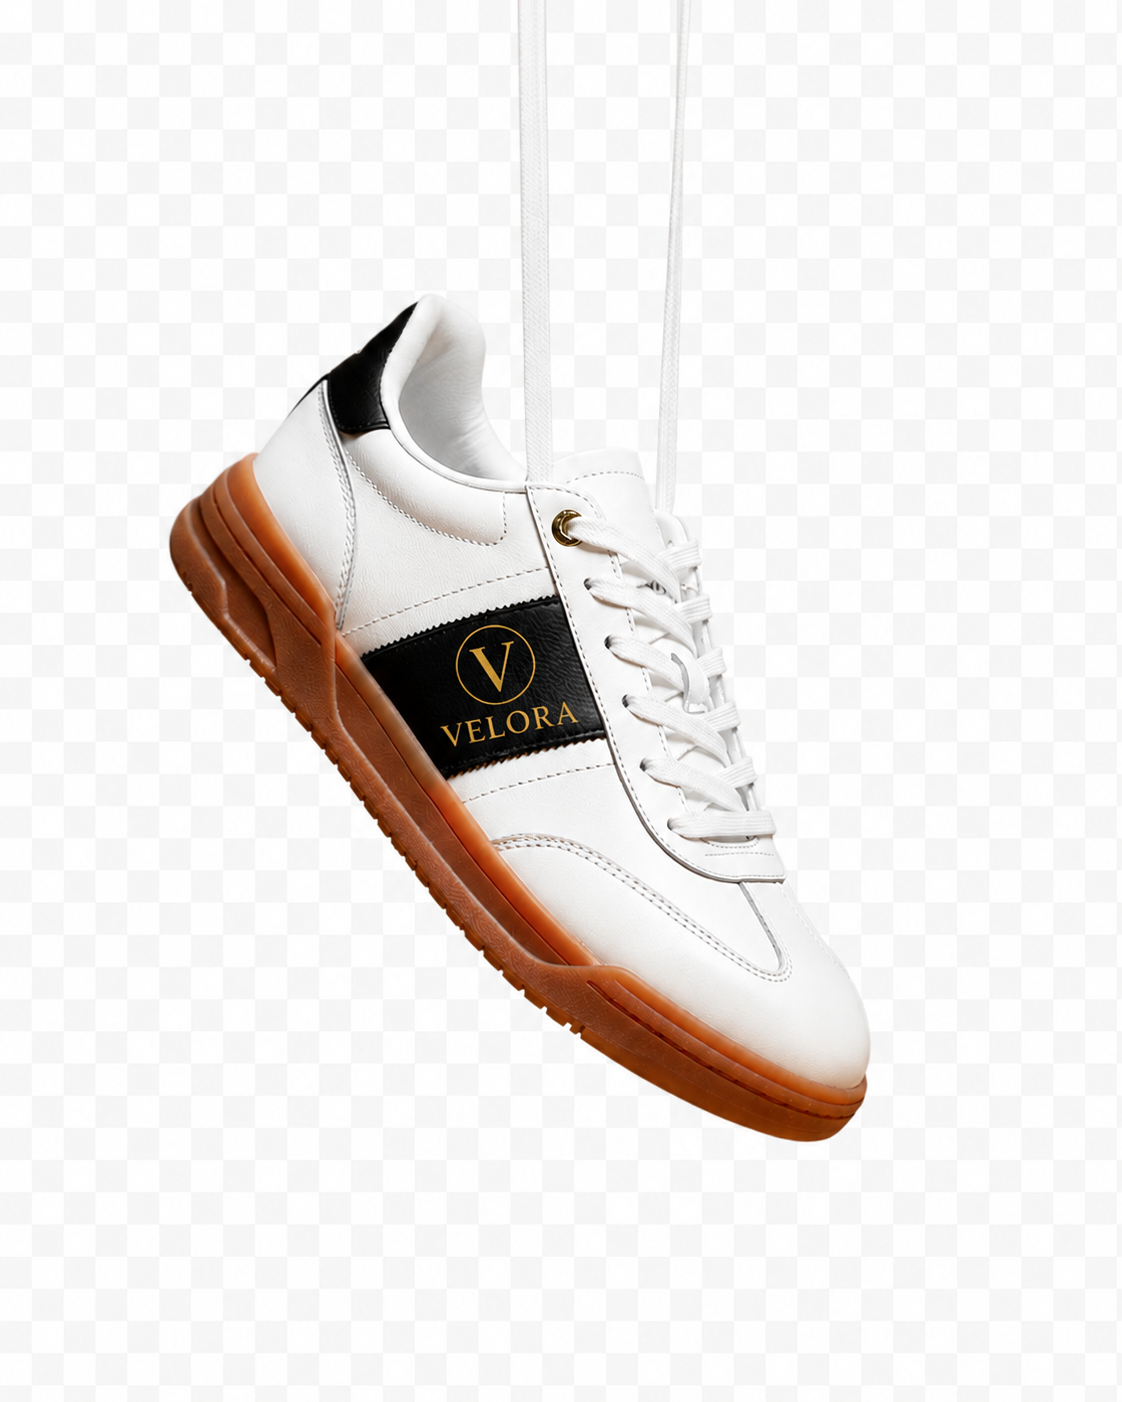
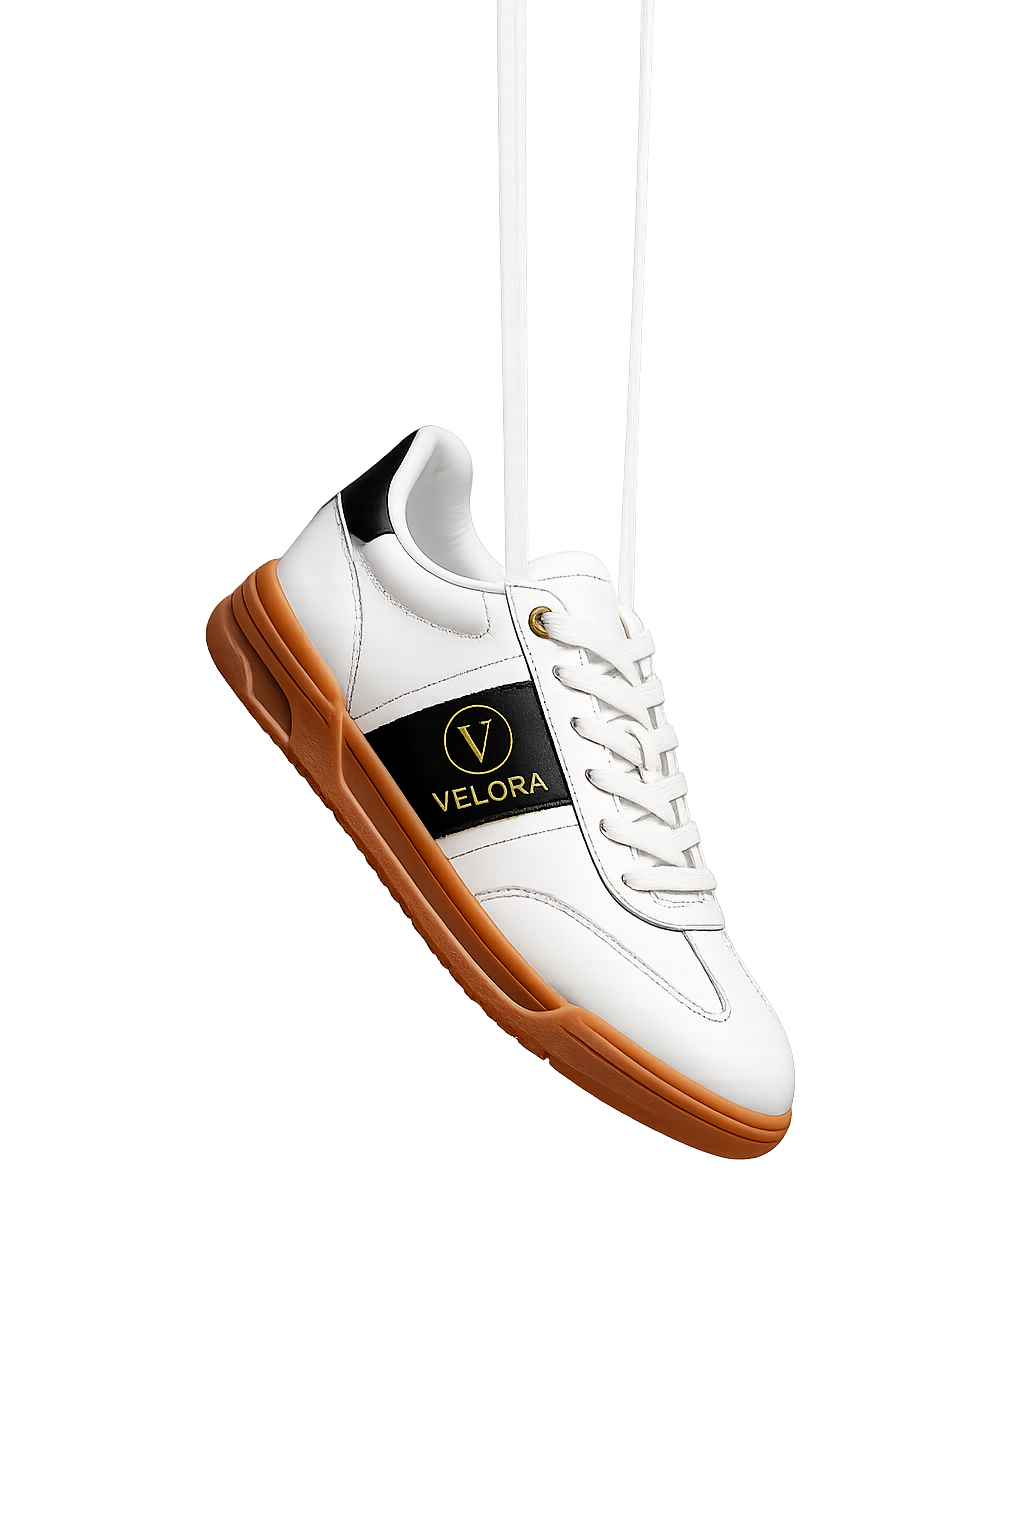
feat: add shoe4, fix featured section scaling with JS on mobile

Changed region(s): [[0.125, 0.2147, 0.7812, 0.8281], [0.5938, 0.0, 0.625, 0.2454], [0.4688, 0.184, 0.5, 0.2454]]

diff --git a/style.css b/style.css
@@ -1,16 +1,10 @@
-/* VELORA — Sneakers Landing Page */
-
 @import url('https://fonts.googleapis.com/css2?family=Bebas+Neue&family=Caveat:wght@700&display=swap');
-
-/*   RESET   */
 
 *, *::before, *::after {
   margin: 0;
   padding: 0;
   box-sizing: border-box;
 }
-
-/*   NAVBAR   */
 
 .navbar {
   position: relative;
@@ -136,8 +130,6 @@
 
 .wish-cart i:hover { color: bisque; }
 
-/*   HERO   */
-
 .hero {
   min-height: 25vh;
   padding: 4rem 2rem;
@@ -185,8 +177,6 @@
   transform: translateY(-2px) scale(1.05);
 }
 
-/*   BRAND SECTION   */
-
 .brand-items { width: 100%; }
 
 .brand {
@@ -206,7 +196,7 @@
 
 .overlay-text {
   position: absolute;
-  top: 50%;
+  top: 60%;
   left: 50%;
   transform: translate(-50%, -50%);
   display: flex;
@@ -220,14 +210,14 @@
 
 .overlay-text h3 {
   color: bisque;
-  font-size: clamp(1rem, 4vw, 1.5rem);
+  font-size: clamp(0.7rem, 2vw, 1.2rem);
   font-family: "Bebas Neue", sans-serif;
   letter-spacing: 0.2rem;
 }
 
 .overlay-text h1 {
   color: rgb(255, 155, 33);
-  font-size: clamp(2.5rem, 6vw, 3.5rem);
+  font-size: clamp(2rem, 4vw, 3.2rem);
   letter-spacing: 0.5rem;
   font-family: "Caveat", cursive;
 }
@@ -251,7 +241,7 @@
 .title h2 {
   color: rgb(255, 155, 33);
   font-family: "Bebas Neue", sans-serif;
-  font-size: clamp(1.8rem, 4vw, 2rem);
+  font-size: clamp(1.5rem, 3vw, 2rem);
   letter-spacing: 0.2rem;
 }
 
@@ -260,11 +250,9 @@
   font-family: "Bebas Neue", sans-serif;
   font-weight: 200;
   letter-spacing: 0.12rem;
-  line-height: 1.6;
+  line-height: 1.3;
   text-align: center;
 }
-
-/* ============  COLLECTION  ============ */
 
 .collection {
   margin-top: 20px;
@@ -283,7 +271,6 @@
 .tag h1 { font-weight: 600; }
 .tag p  { line-height: 1.8; }
 
-
 .shoes {
   display: flex;
   justify-content: flex-start;
@@ -295,8 +282,12 @@
   padding-bottom: 10px;
 }
 
+.shoes::-webkit-scrollbar { height: 4px; }
+.shoes::-webkit-scrollbar-track { background: transparent; }
+.shoes::-webkit-scrollbar-thumb { background: rgba(0,0,0,0.2); border-radius: 2px; }
+
 .shoe {
-  width: clamp(200px, 25%, 300px);
+  width: clamp(160px, 25%, 300px);
   flex-shrink: 0;
   scroll-snap-align: start;
   border-radius: 12px;
@@ -304,13 +295,14 @@
   border: 2px solid #0000001a;
   transition: .3s ease;
   box-shadow: 0 8px 32px rgba(0,0,0,0.3),
-  inset 0 1px 1px rgba(255,255,255,0.25);
+              inset 0 1px 1px rgba(255,255,255,0.25);
 }
 
-.shoe:hover        { transform: translateY(-6px); }
-.shoe1:hover       { box-shadow: 0 0 30px rgba(182,135,77,.45); }
-.shoe2:hover       { box-shadow: 0 0 30px rgba(100,78,78,.45); }
-.shoe3:hover       { box-shadow: 0 0 30px rgba(45,132,52,.45); }
+.shoe:hover  { transform: translateY(-6px); }
+.shoe1:hover { box-shadow: 0 0 30px rgb(188,136,73); }
+.shoe2:hover { box-shadow: 0 0 30px rgb(100,78,78); }
+.shoe3:hover { box-shadow: 0 0 30px rgb(45,132,52); }
+.shoe4:hover { box-shadow: 0 0 30px rgb(255,89,0); }
 
 .shoe-image { position: relative; }
 
@@ -326,7 +318,8 @@
 
 .shoe1 img { background: rgb(177,155,128); }
 .shoe2 img { background: rgb(108,108,108); }
-.shoe3 img { background: rgb(73,134,78);   }
+.shoe3 img { background: rgb(73,134,78); }
+.shoe4 img { background: rgb(83,46,0); object-fit: cover; }
 
 .wishlist {
   position: absolute;
@@ -365,16 +358,12 @@
 .cart-icon       { font-size: 1.2rem; cursor: pointer; transition: .3s; }
 .cart-icon:hover { transform: scale(1.15); }
 
-
-
 .featured-product {
   border: 3px solid black;
   margin-top: 20px;
   width: 100%;
-  overflow: hidden;
-
-  padding-bottom: calc(100vw * 0.75);
   position: relative;
+  overflow: hidden;
 }
 
 .featured-scaler {
@@ -382,10 +371,9 @@
   top: 0;
   left: 0;
   width: 1200px;
-  aspect-ratio: 16 / 12;
+  height: 900px;
   display: flex;
   transform-origin: top left;
-  transform: scale(calc(100vw / 1200px));
 }
 
 .pink-box  { flex: 0.35; background-color: rgb(255,94,121); }
@@ -502,9 +490,9 @@
   transition: 0.3s ease;
 }
 
-.arctic  { left: 40%;                           background-color: rgba(0,183,255,0.233); }
-.crimson { left: calc(40% + 12% + 5%);          background-color: rgba(255,0,0,0.233);   }
-.olive   { left: calc(40% + (12%*2) + (5%*2));  background-color: rgba(128,128,0,0.249); }
+.arctic  { left: 40%;                          background-color: rgba(0,183,255,0.233); }
+.crimson { left: calc(40% + 12% + 5%);         background-color: rgba(255,0,0,0.233); }
+.olive   { left: calc(40% + (12%*2) + (5%*2)); background-color: rgba(128,128,0,0.249); }
 
 .arctic:hover,
 .crimson:hover,
@@ -524,7 +512,7 @@
 .olive h3 {
   position: absolute;
   top: 75%;
-  font-size: clamp(0.8rem, 1.5vw, 0.9rem);
+  font-size: clamp(0.6rem,1.5vw,0.9rem);
   padding-right: 5px;
 }
 
@@ -535,31 +523,26 @@
   left: 35%;
   top: 50%;
   border-radius: 50%;
-border-top:    55px solid white;
-border-right:  55px solid rgb(255,94,121);
-border-bottom: 55px solid rgb(255,94,121);
-border-left:   55px solid white;
-transform: translate(-50%,-50%) rotate(-45deg);
+  border-top:    55px solid white;
+  border-right:  55px solid rgb(255,94,121);
+  border-bottom: 55px solid rgb(255,94,121);
+  border-left:   55px solid white;
+  transform: translate(-50%,-50%) rotate(-45deg);
 }
 
-/* RESPONSIVE BREAKPOINTS */
-
-/* 1024px */
 @media (max-width: 1024px) {
   .search-box { width: 180px; margin-right: 16px; }
-  .elements   { gap: 1.2rem;  margin-right: 18px; }
+  .elements   { gap: 1.2rem; margin-right: 18px; }
 }
 
-/* 900px */
 @media (max-width: 900px) {
   .search-box { width: 150px; margin-right: 12px; }
-  .elements   { gap: 0.9rem;  margin-right: 14px; }
+  .elements   { gap: 0.9rem; margin-right: 14px; }
   .elements a { font-size: 0.78rem; letter-spacing: 0.02em; }
   .logo h1    { font-size: 1rem; }
   .wish-cart  { gap: 14px; }
 }
 
-/* 768px — collection */
 @media (max-width: 768px) {
   .tag    { flex-direction: column; gap: 1rem; padding: 1.5rem; }
   .tag h1 { font-size: clamp(1rem,3.5vw,1.4rem); }
@@ -567,11 +550,10 @@ transform: translate(-50%,-50%) rotate(-45deg);
   .shoes  { gap: 14px; margin: 24px 12px; }
 }
 
-/* 650px — 2-row navbar */
 @media (max-width: 650px) {
-  .navbar     { height: auto; flex-wrap: wrap; padding: 8px 12px; gap: 6px; }
-  .logo       { order: 1; flex: 1; }
-  .wish-cart  { order: 2; flex: 0; }
+  .navbar    { height: auto; flex-wrap: wrap; padding: 8px 12px; gap: 6px; }
+  .logo      { order: 1; flex: 1; }
+  .wish-cart { order: 2; flex: 0; }
 
   .search-box {
     order: 3; flex: 0; width: auto;
@@ -593,7 +575,7 @@ transform: translate(-50%,-50%) rotate(-45deg);
 
   @keyframes searchSlideIn {
     from { opacity: 0; transform: translateY(-50%) translateX(10px); }
-    to   { opacity: 1; transform: translateY(-50%) translateX(0);    }
+    to   { opacity: 1; transform: translateY(-50%) translateX(0); }
   }
 
   .search-box.open input { display: block; width: 100%; color: #000; background: transparent; }
@@ -605,7 +587,6 @@ transform: translate(-50%,-50%) rotate(-45deg);
   .logo h1    { font-size: 0.95rem; }
 }
 
-/* 600px — collection stack + hero tweaks */
 @media (max-width: 600px) {
   .hero-logo       { letter-spacing: 0.8rem; font-size: 2.2rem; }
   .hero-cta        { padding: 0.9rem 1.2rem; }
@@ -613,27 +594,19 @@ transform: translate(-50%,-50%) rotate(-45deg);
   .overlay-text h3 { letter-spacing: 2px; }
   .shoe-title h3   { font-size: 1rem; }
   .shoe-info p     { font-size: 0.9rem; }
+  .shoes           { gap: 12px; margin: 20px 10px; }
+  .shoe            { width: 70vw; }
 }
 
-/* 420px — very small navbar */
 @media (max-width: 420px) {
   .search-box      { display: flex; margin-right: 4px; }
   .search-box.open { width: 140px; }
   .elements        { gap: 0.45rem; }
   .elements a      { font-size: 0.68rem; letter-spacing: 0; }
-}
+  .shoe            { width: 80vw; }
 
-@media (max-width: 600px) {
   .featured-product {
-    padding-bottom: calc(100vw * 0.75);
-  }
-
-  .shoes {
-    gap: 12px;
-    margin: 20px 10px;
-  }
-
-  .shoe {
-    width: clamp(160px, 70vw, 220px);
-  }
+  aspect-ratio: 16 / 12;
+  zoom: calc(100vw / 1200px);
+}
 }

diff --git a/index.html b/index.html
@@ -143,6 +143,27 @@
 
         </div>
 
+        <!-- Shoe 4 -->
+        <div class="shoe shoe4">
+
+            <div class="shoe-image">
+                <i class="fa-solid fa-magnifying-glass wishlist"></i>
+                <img src="images/black-white-sandy.png" alt="Forest Drift">
+            </div>
+
+            <div class="shoe-info">
+
+                <div class="shoe-title">
+                    <h3>Ivory Crest</h3>
+                    <i class="fa-solid fa-cart-arrow-down cart-icon"></i>
+                </div>
+
+                <p>₹ 6,799</p>
+
+            </div>
+
+        </div>
+
     </div>
 
 </section>

diff --git a/script.js b/script.js
@@ -59,3 +59,15 @@ window.addEventListener('resize', () => {
     closeSearch();
   }
 });
+
+function scaleFeatured() {
+  const scaler = document.querySelector('.featured-scaler');
+  const product = document.querySelector('.featured-product');
+  const scale = window.innerWidth / 1200;
+  scaler.style.transform = `scale(${scale})`;
+  scaler.style.transformOrigin = 'top left';
+  product.style.height = (900 * scale) + 'px';
+}
+
+scaleFeatured();
+window.addEventListener('resize', scaleFeatured);